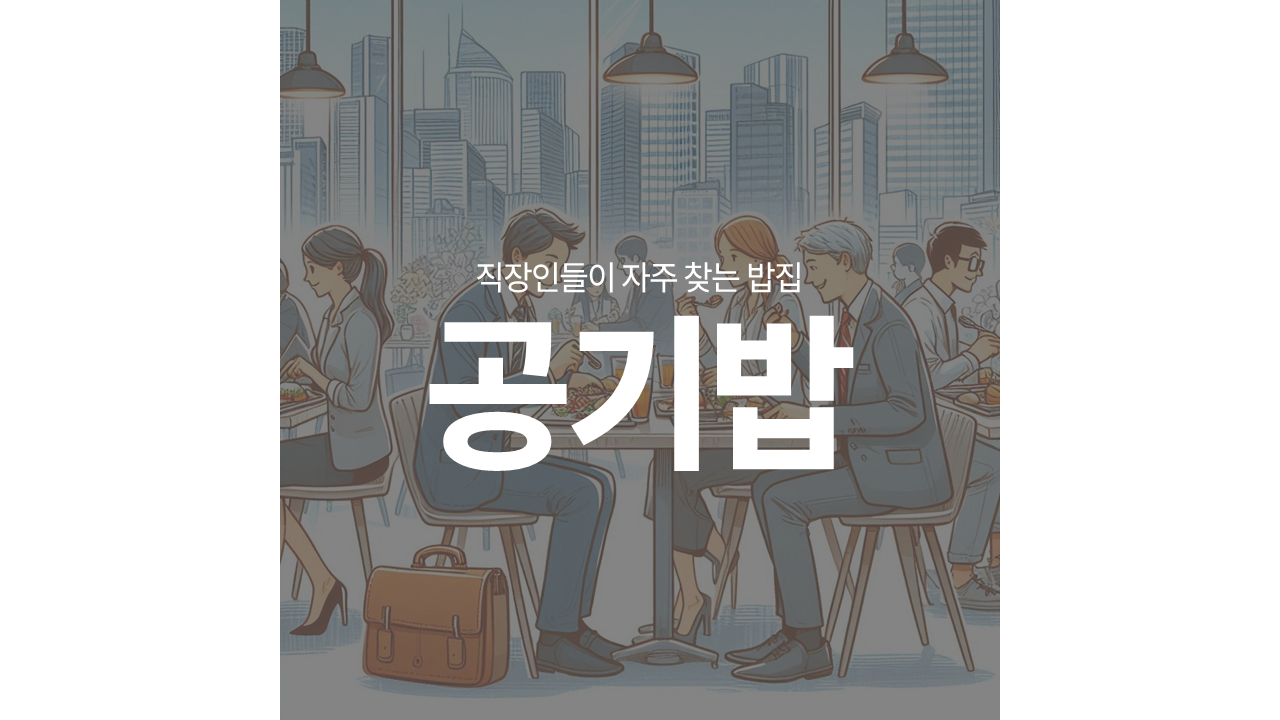
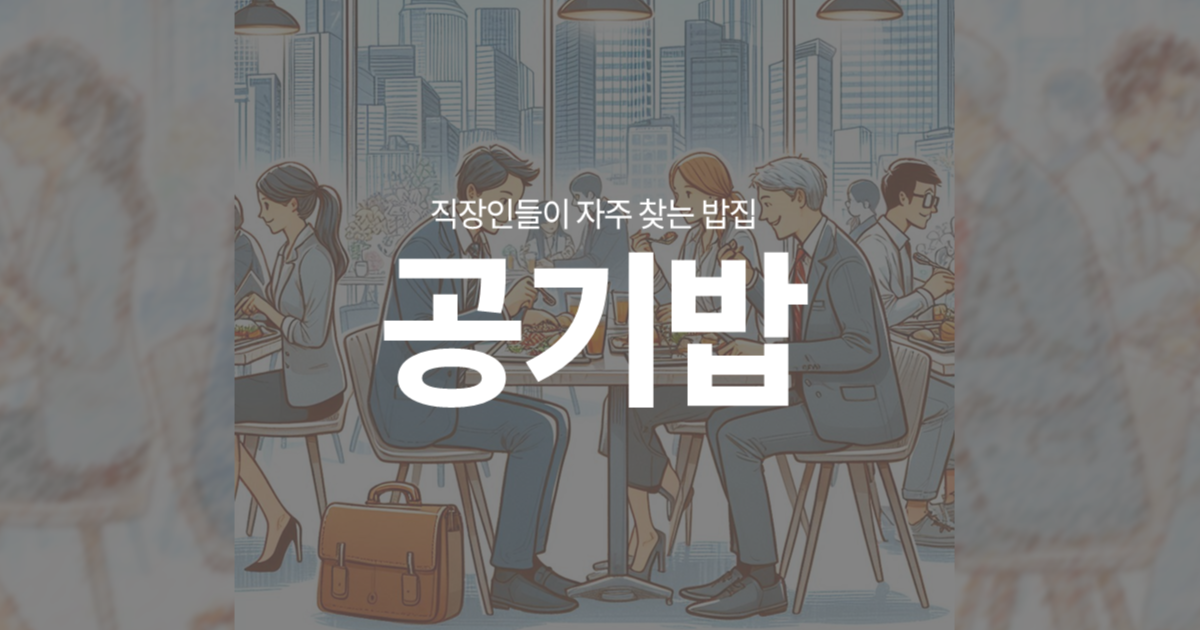
fix : openGraph 이미지 수정, 설정 추가

diff --git a/gonggibap/src/app/layout.tsx b/gonggibap/src/app/layout.tsx
@@ -20,7 +20,21 @@ export const metadata: Metadata = {
   openGraph: {
     title: "공기밥",
     description: "공무원 업무추진비로 검증된 맛집을 찾아보세요",
-    images: ["/images/ogImage.png"],
+    images: [
+      {
+        url: `${process.env.NEXT_PUBLIC_CLIENT_URL}/images/ogImage.png`,
+        width: 1200,
+        height: 630,
+        alt: "공기밥 - 공무원 맛집 추천",
+      },
+    ],
+    type: "website",
+    locale: "ko_KR",
+    url: process.env.NEXT_PUBLIC_CLIENT_URL,
+    siteName: "공기밥",
+  },
+  icons: {
+    icon: "/favicon.ico",
   },
 };
 
